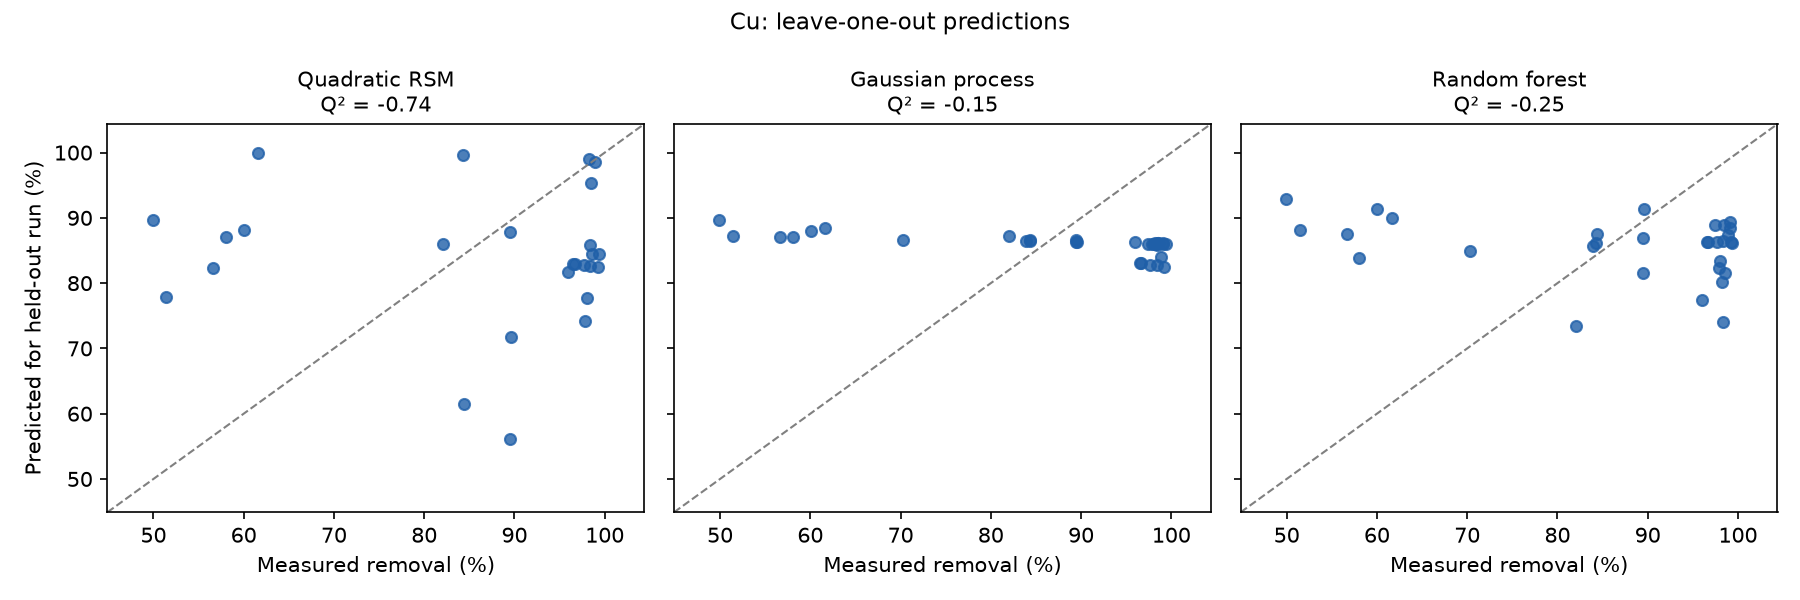
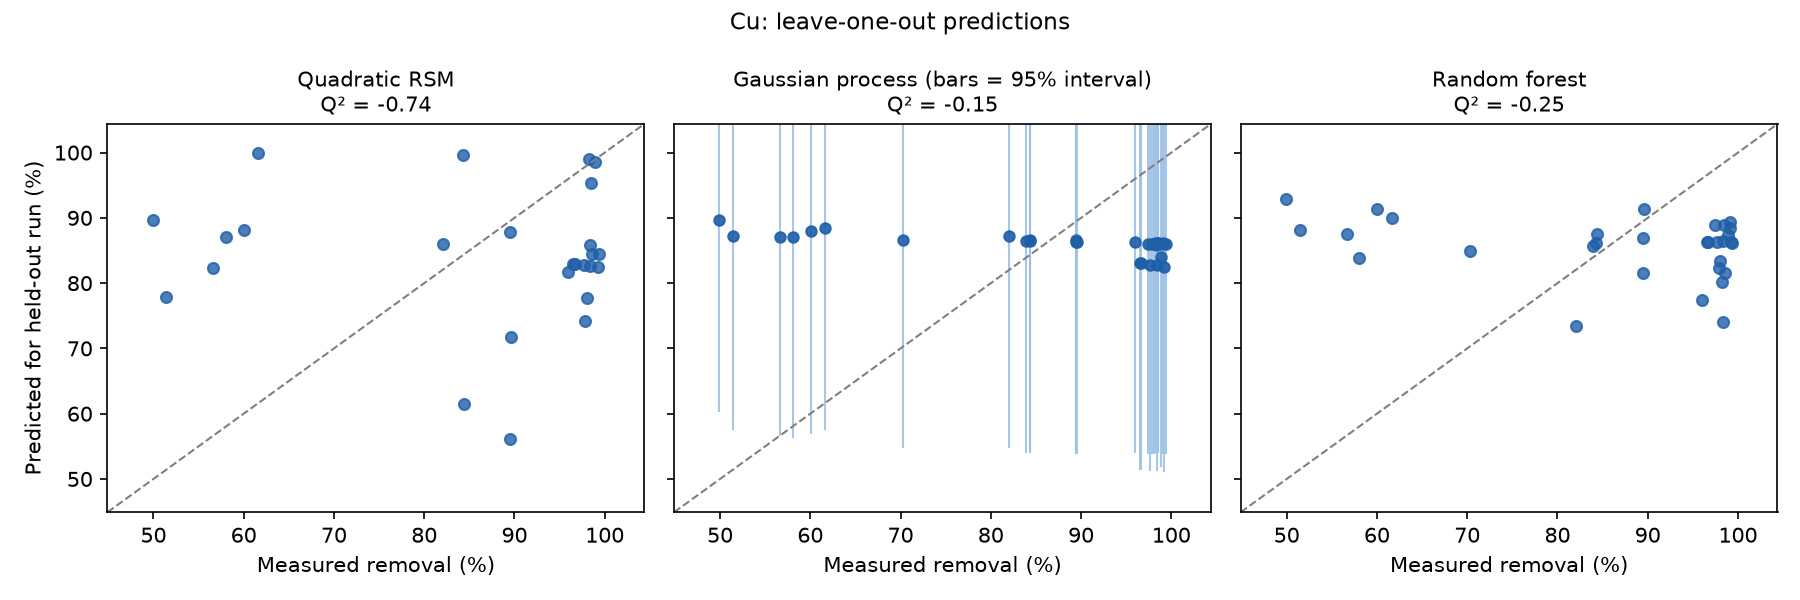
Add files via upload

diff --git a/compare_models.py b/compare_models.py
@@ -34,7 +34,7 @@ from sklearn.linear_model import LinearRegression
 from sklearn.model_selection import LeaveOneOut, cross_val_predict
 from sklearn.pipeline import make_pipeline
 from sklearn.preprocessing import PolynomialFeatures, StandardScaler
-from scipy.stats import spearmanr
+from scipy.stats import mannwhitneyu, spearmanr
 
 FACTORS = ["castor_g", "peel_g", "time_min", "temp_C"]
 LABELS = {"castor_g": "Castor-leaf mass", "peel_g": "Sugarcane-peel mass",
@@ -74,6 +74,106 @@ def demo_data(seed=0):
         y = base + 1.5 * x[:, 0] + 1.0 * x[:, 2] + 1.2 * x[:, 0] * x[:, 2] - 0.8 * x[:, 1] ** 2
         df[f"removal_{metal}"] = np.clip(y + rng.normal(0, noise, len(y)), 0, 100).round(2)
     return df
+
+
+def gp_loo_with_uncertainty(X, y):
+    """Leave-one-out GP predictions WITH a standard deviation for each held-out run.
+    A well-calibrated model's 95% intervals (mean +/- 1.96 SD) should contain about 95% of measurements."""
+    mean, sd = np.zeros(len(y)), np.zeros(len(y))
+    for train, test in LeaveOneOut().split(X):
+        gp = make_models()["Gaussian process"].fit(X[train], y[train])
+        m, s = gp.predict(X[test], return_std=True)
+        mean[test], sd[test] = m, s
+    return mean, sd
+
+
+def control_chart(df, out, order):
+    """Individuals (Shewhart) control chart of removal against run order, as used to catch
+    sensor drift and process upsets in treatment plants.
+    Limits: mean +/- 3 sigma, with sigma estimated from the average moving range (MR-bar / 1.128).
+    Flags: Rule 1 = a point outside the limits; Rule 2 = 8 or more consecutive points on one side of the centre line (a shift)."""
+    targets = [c for c in df.columns if c.startswith("removal_")]
+    d = df.sort_values(order).reset_index(drop=True)
+    rows, n = [], len(targets)
+    ncol = 3 if n > 2 else n
+    nrow = int(np.ceil(n / ncol))
+    fig, axes = plt.subplots(nrow, ncol, figsize=(4.3 * ncol, 3.2 * nrow), squeeze=False)
+    for ax, t in zip(axes.flat, targets):
+        x, y = d[order].to_numpy(float), d[t].to_numpy(float)
+        centre = y.mean()
+        sigma = np.mean(np.abs(np.diff(y))) / 1.128
+        ucl, lcl = centre + 3 * sigma, centre - 3 * sigma
+        rule1 = (y > ucl) | (y < lcl)
+        side = np.sign(y - centre)
+        rule2 = np.zeros(len(y), bool)
+        start = 0
+        for i in range(1, len(y) + 1):
+            if i == len(y) or side[i] != side[start] or side[i] == 0:
+                if i - start >= 8 and side[start] != 0:
+                    rule2[start:i] = True
+                start = i
+        ax.plot(x, y, color="#9aa5b1", lw=1, zorder=1)
+        ax.scatter(x, y, s=20, color="#1f5fa8", zorder=2)
+        ax.scatter(x[rule2], y[rule2], s=60, facecolors="none", edgecolors="#e09f3e", lw=1.5, zorder=3,
+                   label="Rule 2: 8+ in a row on one side (shift)")
+        ax.scatter(x[rule1], y[rule1], s=40, color="#d1495b", marker="X", zorder=4, label="Rule 1: outside 3σ limits")
+        for v, ls in [(centre, "-"), (ucl, "--"), (lcl, "--")]:
+            ax.axhline(v, color="black", lw=0.8, ls=ls)
+        ax.set_title(t.replace("removal_", ""), fontsize=10)
+        ax.set_xlabel("Run order")
+        ax.set_ylabel("Removal (%)")
+        rows.append({"metal": t.replace("removal_", ""), "centre_%": round(centre, 1),
+                     "LCL_%": round(lcl, 1), "UCL_%": round(ucl, 1),
+                     "rule1_runs_outside_limits": ", ".join(str(int(v)) for v in x[rule1]) or "none",
+                     "rule2_shift_runs": ", ".join(str(int(v)) for v in x[rule2]) or "none"})
+    for ax in list(axes.flat)[n:]:
+        ax.axis("off")
+    handles, labels = [], []
+    for ax in axes.flat:
+        for h, l in zip(*ax.get_legend_handles_labels()):
+            if l not in labels:
+                handles.append(h); labels.append(l)
+    fig.legend(handles, labels, loc="lower center", ncol=2, frameon=False, fontsize=9)
+    fig.suptitle("Control charts (individuals): solid = mean, dashed = ±3σ limits", fontsize=11)
+    fig.tight_layout(rect=(0, 0.07, 1, 1))
+    fig.savefig(os.path.join(out, "control_charts.png"), dpi=150)
+    plt.close(fig)
+    cc = pd.DataFrame(rows)
+    cc.to_csv(os.path.join(out, "control_chart_flags.csv"), index=False)
+    return cc
+
+
+def session_check(df, out):
+    """If the file has a 'session' column (e.g. day 1 vs later days), compare the sessions and
+    re-test the ML models on the last session alone, where the process was stable."""
+    if "session" not in df.columns or df["session"].nunique() < 2:
+        return None
+    targets = [c for c in df.columns if c.startswith("removal_")]
+    first, last = df["session"].min(), df["session"].max()
+    a, b = df[df["session"] == first], df[df["session"] == last]
+    centre = centre_mask(df)
+    rows = []
+    for t in targets:
+        row = {"metal": t.replace("removal_", ""),
+               f"session_{first}_mean_%": round(a[t].mean(), 1), f"session_{first}_SD": round(a[t].std(), 1),
+               f"session_{last}_mean_%": round(b[t].mean(), 1), f"session_{last}_SD": round(b[t].std(), 1),
+               "difference_p (Mann-Whitney)": round(mannwhitneyu(a[t], b[t]).pvalue, 4)}
+        if centre is not None:
+            cb = b.loc[centre[b.index], t]
+            if len(cb) >= 2:
+                row[f"centre_SD_session_{last}"] = round(cb.std(), 1)
+        d = b[FACTORS + [t]].dropna()
+        X, y = d[FACTORS].to_numpy(float), d[t].to_numpy(float)
+        for name in ["Gaussian process", "Random forest"]:
+            with warnings.catch_warnings():
+                warnings.simplefilter("ignore")
+                p = cross_val_predict(make_models()[name], X, y, cv=LeaveOneOut())
+            row[f"Q2_{name.split()[0]}_session_{last}_only"] = round(q2(y, p), 2)
+        row[f"range_session_{last}_%"] = f"{y.min():.1f}-{y.max():.1f}"
+        rows.append(row)
+    sc = pd.DataFrame(rows)
+    sc.to_csv(os.path.join(out, "session_check.csv"), index=False)
+    return sc
 
 
 def find_run_order(df):
@@ -172,13 +272,21 @@ def evaluate(df, out):
         for name, model in make_models().items():
             with warnings.catch_warnings(record=True) as caught:
                 warnings.simplefilter("always", ConvergenceWarning)
-                p = cross_val_predict(model, X, y, cv=LeaveOneOut())
+                if name == "Gaussian process":
+                    p, sd = gp_loo_with_uncertainty(X, y)
+                    gp_sd = sd
+                else:
+                    p = cross_val_predict(model, X, y, cv=LeaveOneOut())
             hit_limit = any(issubclass(w.category, ConvergenceWarning) for w in caught)
             preds[name] = p
             row = {"metal": metal, "model": name, "n_runs": len(y),
                    "Q2_LOO": round(q2(y, p), 3),
                    "RMSE_LOO_%": round(float(np.sqrt(np.mean((y - p) ** 2))), 2),
                    "GP_hit_limit": hit_limit if name == "Gaussian process" else ""}
+            if name == "Gaussian process":
+                inside = np.abs(y - p) <= 1.96 * gp_sd
+                row["GP_95%_interval_coverage"] = round(float(inside.mean()), 2)
+                row["GP_mean_interval_width_%"] = round(float(np.mean(2 * 1.96 * gp_sd)), 1)
             if name == "Quadratic RSM":
                 fitted = model.fit(X, y).predict(X)
                 row["R2_in_sample"] = round(1 - np.sum((y - fitted) ** 2) / np.sum((y - y.mean()) ** 2), 3)
@@ -205,11 +313,16 @@ def evaluate(df, out):
 
         # Parity plot: LOO prediction vs measured
         fig, axes = plt.subplots(1, 3, figsize=(12, 4), sharex=True, sharey=True)
-        lo, hi = y.min() - 5, min(y.max() + 5, 105)
+        lo, hi = y.min() - 5, min(max(y.max(), preds["Gaussian process"].max()) + 5, 110)
         for ax, name in zip(axes, ["Quadratic RSM", "Gaussian process", "Random forest"]):
-            ax.scatter(y, preds[name], s=28, color="#1f5fa8", alpha=0.8)
+            if name == "Gaussian process":
+                ax.errorbar(y, preds[name], yerr=1.96 * gp_sd, fmt="o", ms=5, color="#1f5fa8",
+                            ecolor="#9ec1e6", elinewidth=1, alpha=0.9)
+            else:
+                ax.scatter(y, preds[name], s=28, color="#1f5fa8", alpha=0.8)
             ax.plot([lo, hi], [lo, hi], color="grey", lw=1, ls="--")
-            ax.set_title(f"{name}\nQ² = {q2(y, preds[name]):.2f}", fontsize=10)
+            extra = " (bars = 95% interval)" if name == "Gaussian process" else ""
+            ax.set_title(f"{name}{extra}\nQ² = {q2(y, preds[name]):.2f}", fontsize=10)
             ax.set_xlabel("Measured removal (%)")
             ax.set_xlim(lo, hi); ax.set_ylim(lo, hi)
         axes[0].set_ylabel("Predicted for held-out run (%)")
@@ -241,10 +354,18 @@ def evaluate(df, out):
     plt.close()
 
     diag = diagnostics(df, out)
+    cc = control_chart(df, out, order) if order else None
+    sc = session_check(df, out)
     with pd.option_context("display.width", 140, "display.max_columns", 20):
         print(summary.drop(columns=["GP_hit_limit"]).to_string(index=False))
         print("\nREPLICATE NOISE AND RUN-ORDER DRIFT")
         print(diag.to_string(index=False))
+        if cc is not None:
+            print("\nCONTROL CHART FLAGS (run numbers)")
+            print(cc.to_string(index=False))
+        if sc is not None:
+            print("\nSESSION (DAY) COMPARISON, AND MODELS RE-TESTED ON THE LAST SESSION ONLY")
+            print(sc.to_string(index=False))
     print(f"\nSaved results to {out}/")
 
 

diff --git a/README.md b/README.md
@@ -24,6 +24,8 @@ If all three fail on held-out runs, the limit is the data (noise and the narrow 
   - **Q²** (predictive R²). Above 0.5 is useful; below 0 is worse than guessing the average.
   - **RMSE** in % removal.
   - The RSM's in-sample R², to show the gap between fitting the data and predicting new runs.
+- Data-quality checks: spread of the centre-point replicates, correlation with run order, and control charts (Shewhart individuals chart with ±3σ limits from the average moving range; flags points outside the limits and 8 or more consecutive points on one side of the mean).
+- Uncertainty: leave-one-out 95% prediction intervals from the GP, and how often they contain the measured value.
 - Factor importance: GP length scales (shorter means a more influential factor) and RF importances.
 
 ## Results
@@ -54,16 +56,51 @@ The quadratic RSM fitted the data moderately (R² 0.25–0.60) but predicted uns
 
 When repeating the same conditions varies this much, no model can detect the effect of changing the conditions.
 
-**3. Removal drifted upward with the order in which runs were performed.** Run order correlated with removal (Spearman ρ): Cd ρ = 0.66 (p < 0.001), Cu ρ = 0.49 (p = 0.005) and Ni ρ = 0.44 (p = 0.012). On its own, the sequence number predicted Cu and Cd removal (Q² ≈ 0.3–0.4) better than all four experimental factors combined. The run-order chart shows a step change: removals were lower and more erratic in roughly the first 10 runs, then stabilised.
+**3. Removal drifted upward with the order in which runs were performed.** Run order correlated with removal (Spearman ρ): Cd ρ = 0.66 (p < 0.001), Cu ρ = 0.49 (p = 0.005) and Ni ρ = 0.44 (p = 0.012). On its own, the sequence number predicted Cu and Cd removal (Q² ≈ 0.3–0.4) better than all four experimental factors combined. The run-order chart shows a step change: removals were lower and more erratic in the first 10 runs, then stabilised.
 
 **4. Iron behaved differently.** In run 6, Fe removal was −26%, so the solution held more iron after treatment than before. The plant-based adsorbent may have released iron.
 
-**Conclusion:** within the ranges tested, the effects of adsorbent dose, time and temperature were smaller than the run-to-run variability. A time-related drift during the experiment, rather than the choice of model, is the most likely main source of that variability.
+**5. A control chart pinpoints when the process changed.** Individuals (Shewhart) control charts of removal against run order flag the same period for several metals:
+- **Cu:** runs 1, 3, 4, 8, 9 and 10 fall below the lower 3σ limit.
+- **Cr:** runs 1, 2 and 6 fall below the limit.
+- **Cd:** runs 1, 3 and 9 fall below the limit. From run 11 onward, all 21 remaining runs sit above the centre line, which is a clear shift.
+
+The process behaved differently in the first 10 runs, then settled.
+
+**6. The Gaussian process "knows what it doesn't know".** For each held-out run, the GP gives a prediction with a 95% interval. Those intervals contained 87–97% of the measured values, so the uncertainty is honest. However, the intervals were very wide: about ±4% for Pb and ±7–8% for Ni and Cd, but ±32–48% for Cu, Cr and Fe. The model fell back to roughly the average and widened its uncertainty instead of making confident wrong predictions. That is the behaviour you want from a model used for safety-relevant decisions.
+
+**7. The shift lines up with a change of day.** Runs 1–10 were performed on the first day, and run 11 began a new day, exactly where the control charts show the shift. Comparing day 1 with the later runs:
+
+| Metal | Day 1 mean (SD) | Later mean (SD) | p (Mann-Whitney) | Later centre replicates |
+|---|---|---|---|---|
+| Cu | 66.9% (15.1) | 95.7% (5.2) | < 0.001 | 96.5–99.2% |
+| Cd | 91.5% (4.3) | 98.3% (0.7) | < 0.001 | 97.3–98.8% |
+| Pb | 95.8% (2.3) | 97.8% (2.0) | 0.015 | 96.5–99.2% |
+| Ni | 92.4% (4.6) | 95.1% (3.4) | 0.10 | 89.8–97.6% |
+| Cr | 72.6% (28.8) | 90.6% (7.6) | 0.13 | 75.4–97.0% |
+| Fe | 43.0% (28.6) | 67.9% (20.2) | 0.054 | 49.5–96.8% |
+
+After day 1, the centre replicates for Cu, Cd and Pb agree closely (e.g., Cu within 3 percentage points, against 50–99% overall). So the large replicate noise was mostly a **day 1 effect**, a "block effect" in experimental-design terms. The design was not blocked by day (all runs are in one block), so this effect was confused with the effects of the factors. Cr and Fe stayed noisy in the later runs as well.
+
+**8. Even the stable runs could not be predicted, because removal was near its ceiling.** When the GP and random forest were re-tested on runs 11–31 alone, Q² was still at or below about 0 for every metal (best: random forest for Cu, 0.16). In those runs, removal of Cd (97–100%), Pb (93–99%) and Ni (89–99%) was close to 100% across almost all conditions. When nearly every run removes nearly everything, there is little difference left for the factors to explain. The adsorbent doses were large relative to the low metal concentrations (about 1–2 mg/L), so the design ranges probably sat on a performance plateau.
+
+**Conclusion:** the models failed for two reasons, neither of which a better algorithm could fix. First, a **day-to-day effect** (day 1 vs later) added large variability that the design did not account for. Second, in the stable later runs (from run 11), removal was **close to 100% under nearly all conditions**, so the factors had little left to explain within the ranges tested.
+
+## Relevance to the water industry
+
+This is a small lab dataset, not plant data. Even so, the project works through three problems that decide whether AI can be trusted at a real treatment plant:
+
+1. **Check the data before modelling it.** Treatment plants run on sensors (turbidity, chlorine, pH) that drift as they foul or lose calibration. A model trained on drifting data learns the drift, not the process. This project found the same problem, run-order drift and noisy replicates, before any model could be trusted. The control charts used here are the same tool utilities use to catch sensor faults and process upsets.
+2. **A model must beat a simple baseline.** A utility should not use a model that cannot beat "use the average" or "tomorrow will be like today". Every model here was tested against a baseline on unseen runs, and the result was reported honestly when they failed.
+3. **Report uncertainty, not just a number.** A confidently wrong prediction about water safety is dangerous. The Gaussian process reports a 95% interval for each prediction. Here those intervals were honest (they covered 87–97% of results) and wide, signalling that the data could not support confident predictions.
+
+The practical lesson for applying AI to water treatment is that data quality and validation come before model complexity.
 
 ## Limitations
 
 - 31 runs is a small dataset. Leave-one-out validation measures overfitting but cannot overcome it.
-- Run order is a stand-in for whatever changed over time. The data cannot say *what* changed. Possible causes include AAS calibration drift, adsorbent ageing or moisture uptake, storage time of samples before analysis, or improving technique.
+- The control-chart limits were calculated from all 31 runs, including the unstable early period. In a plant, limits would be set from a known stable period and then applied to new data.
+- The shift coincides with a change of day, but the data cannot say *what* changed between days. Possible causes include AAS recalibration, a freshly prepared or differently conditioned adsorbent, how long samples were stored before analysis, or room temperature.
 - The design's run order was not fully randomised against time-dependent effects. Because of this, drift can be confused with the effects of the factors.
 - Results apply to one produced-water sample and these two adsorbents.
 - Run 10's sugarcane-peel mass was set to 0 g. The design called for a negative axial value (−0.04 g), which is not physically possible.
@@ -71,13 +108,54 @@ When repeating the same conditions varies this much, no model can detect the eff
 ## What this means for the next experiments
 
 1. **Control noise first.** Use calibration check standards and blanks during every AAS session, and record dates and batches.
-2. **Randomise and block.** Randomise the run order, and record the day and adsorbent batch so drift can be modelled as a block effect.
+2. **Block by day.** Central Composite Designs can be split into blocks, so each day gets a balanced set of runs including its own centre points. Then a day effect can be estimated and removed instead of being confused with the factors. Also randomise the run order within each day.
 3. **Spread replicates through the sequence.** Space the centre-point replicates across the run order, and run more of them, to track drift.
 4. **Prepare one adsorbent batch and condition it** before starting, then store it in a desiccator.
 5. **Investigate iron release** from the bio-adsorbents. It matters for treated-water quality, especially if the adsorbents are used for drinking water.
-6. Only once replicate noise is small, return to modelling. The GP's uncertainty estimates can then guide which runs to add.
+6. **Move off the plateau.** Use higher metal concentrations or lower adsorbent doses (an isotherm study would show where) so the conditions actually produce different removals.
+7. Only once replicate noise is small, return to modelling. The GP's uncertainty estimates can then guide which runs to add.
 
 ---
 
+## How to run it
 
+**Easiest, with nothing to install:** open `compare_models_colab.ipynb` in [Google Colab](https://colab.research.google.com). Upload the notebook, `compare_models.py` and your data CSV, then run each cell.
 
+**On your own computer:**
+
+```bash
+pip install -r requirements.txt
+python compare_models.py --demo                      # check it works (synthetic data)
+python compare_models.py --data data/thesis_runs.csv # your real data
+```
+
+Results go to `results/`:
+
+- `summary.csv`: Q², RMSE and RSM in-sample R² for each metal and model
+- `factor_importance.csv`
+- `parity_<metal>.png`: predicted vs. measured for each held-out run
+- `q2_comparison.png`
+- `diagnostics.csv`: centre-replicate noise and run-order drift for each metal
+- `run_order_and_replicates.png`: removal plotted against the order runs were performed
+- `session_check.csv`: day 1 vs later comparison, and models re-tested on the last session only
+- `control_charts.png` and `control_chart_flags.csv`: Shewhart individuals charts and the runs they flag
+- `parity_<metal>.png` now shows the Gaussian process's 95% prediction interval for each run, and `summary.csv` gives the interval coverage and width
+
+`GP_hit_limit = True` means the GP pushed a length scale to its limit. This usually means that factor has almost no effect on that metal, which is worth reporting, not an error.
+
+## Data format
+
+Copy `data/thesis_runs_TEMPLATE.csv` to `data/thesis_runs.csv` and fill one row per run, using real units (not coded −2…+2 values):
+
+| Column | Meaning |
+|---|---|
+| `run` or `RunOrder` | Order the runs were actually performed in (used for the drift check) |
+| `session` (optional) | Day or batch number. If present, the program compares sessions and re-tests the models on the last one |
+| `point_type` or `PtType` | factorial / axial / center, or Design-Expert's 1 / −1 / 0 (used for the replicate check) |
+| `castor_g` | Castor-leaf mass (g) |
+| `peel_g` | Sugarcane-peel mass (g) |
+| `time_min` | Contact time (min) |
+| `temp_C` | Temperature (°C) |
+| `removal_Pb` … `removal_Fe` | % removal for each metal |
+
+You can leave a metal's column blank if you don't have it. Any column starting with `removal_` is modelled automatically.
